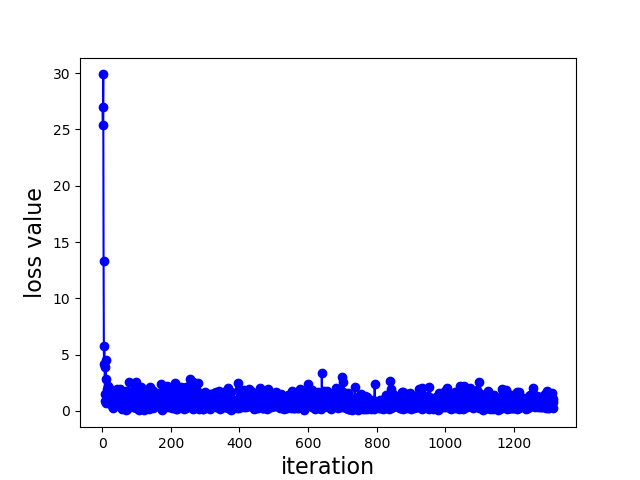
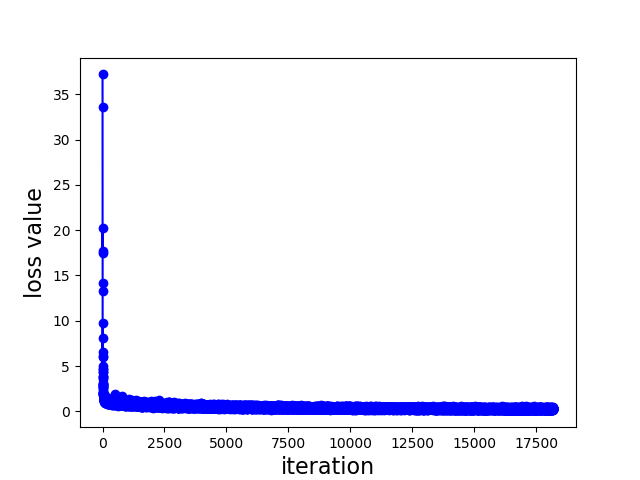
update

diff --git a/test_rdkit_psc.py b/test_rdkit_psc.py
@@ -2,10 +2,13 @@ import models
 from utils import *
 from dataset import *
 
-X_drug, X_target, y  = load_process_DAVIS('./data/', binary=False)
+X_drug, X_target, y  = process_BindingDB('./data/BindingDB_All.tsv',
+                                         y = 'Kd', 
+                                         binary = False, 
+                                         convert_to_log = True)
 
-drug_encoding = 'MPNN'
-target_encoding = 'CNN'
+drug_encoding = 'rdkit_2d_normalized'
+target_encoding = 'AAC'
 train, val, test = data_process(X_drug, X_target, y, 
                                 drug_encoding, target_encoding, 
                                 split_method='random',frac=[0.7,0.1,0.2])
@@ -13,15 +16,14 @@ train, val, test = data_process(X_drug, X_target, y,
 config = generate_config(drug_encoding = drug_encoding, 
                          target_encoding = target_encoding, 
                          cls_hidden_dims = [1024,1024,512], 
-                         train_epoch = 1, 
+                         train_epoch = 100, 
                          LR = 0.001, 
-                         batch_size = 16,
+                         batch_size = 256,
                          cnn_target_filters = [32,64,96],
                          cnn_target_kernels = [4,8,12],
-                         hidden_dim_drug = 128,
                          mpnn_hidden_size = 128,
                          mpnn_depth = 3
                         )
 model = models.model_initialize(**config)
 model.train(train, val, test)
-model.save_model('./model_MPNN_CNN')
+model.save_model('./model_rdkit_AAC')

diff --git a/test_Transformer_CNN.py b/test_Transformer_CNN.py
@@ -7,8 +7,8 @@ X_drug, X_target, y  = process_BindingDB('./data/BindingDB_All.tsv',
                                          binary = False, 
                                          convert_to_log = True)
 
-drug_encoding = 'CNN_RNN'
-target_encoding = 'CNN_RNN'
+drug_encoding = 'Transformer'
+target_encoding = 'CNN'
 train, val, test = data_process(X_drug, X_target, y, 
                                 drug_encoding, target_encoding, 
                                 split_method='random',frac=[0.7,0.1,0.2])
@@ -18,12 +18,10 @@ config = generate_config(drug_encoding = drug_encoding,
                          cls_hidden_dims = [1024,1024,512], 
                          train_epoch = 100, 
                          LR = 0.001, 
-                         batch_size = 256,
-                         cnn_drug_filters = [32,64,96],
+                         batch_size = 128,
                          cnn_target_filters = [32,64,96],
-                         cnn_drug_kernels = [4,6,8],
                          cnn_target_kernels = [4,8,12]
                         )
 model = models.model_initialize(**config)
 model.train(train, val, test)
-model.save_model('./model_CNN+RNN_CNN+RNN')
+model.save_model('./model_MPNN_CNN')

diff --git a/models.py b/models.py
@@ -262,14 +262,15 @@ class MPNN(nn.Sequential):
 			n_b = atoms_bonds[i,1].item()
 			if (n_a == 0):
 				embed = create_var(torch.zeros(1, self.mpnn_hidden_size))
-				embeddings.append(embed)
+				embeddings.append(embed.to(device))
 				continue 
 			sub_fatoms = fatoms[N_atoms:N_atoms+n_a,:].to(device)
 			sub_fbonds = fbonds[N_bonds:N_bonds+n_b,:].to(device)
 			sub_agraph = agraph[N_atoms:N_atoms+n_a,:].to(device)
 			sub_bgraph = bgraph[N_bonds:N_bonds+n_b,:].to(device)
 			embed = self.single_molecule_forward(sub_fatoms, sub_fbonds, sub_agraph, sub_bgraph)
-			embeddings.append(embed.to(device))
+			embed = embed.to(device)            
+			embeddings.append(embed)
 			N_atoms += n_a
 			N_bonds += n_b
 		try:

diff --git a/utils.py b/utils.py
@@ -409,10 +409,10 @@ def generate_config(drug_encoding, target_encoding,
 					batch_size = 256,
 					train_epoch = 10,
 					LR = 1e-4,
-					transformer_emb_size_drug = 256,
-					transformer_intermediate_size_drug = 1024,
-					transformer_num_attention_heads_drug = 4,
-					transformer_n_layer_drug = 1,
+					transformer_emb_size_drug = 128,
+					transformer_intermediate_size_drug = 512,
+					transformer_num_attention_heads_drug = 8,
+					transformer_n_layer_drug = 8,
 					transformer_emb_size_target = 256,
 					transformer_intermediate_size_target = 1024,
 					transformer_num_attention_heads_target = 4,

diff --git a/test_path_psc.py b/test_path_psc.py
@@ -18,7 +18,7 @@ config = generate_config(drug_encoding = drug_encoding,
                          cls_hidden_dims = [1024,1024,512], 
                          train_epoch = 100, 
                          LR = 0.001, 
-                         batch_size = 16,
+                         batch_size = 256,
                          cnn_target_filters = [32,64,96],
                          cnn_target_kernels = [4,8,12],
                          mpnn_hidden_size = 128,

diff --git a/test_MPNN_CNN.py b/test_MPNN_CNN.py
@@ -18,7 +18,7 @@ config = generate_config(drug_encoding = drug_encoding,
                          cls_hidden_dims = [1024,1024,512], 
                          train_epoch = 100, 
                          LR = 0.001, 
-                         batch_size = 16,
+                         batch_size = 128,
                          cnn_target_filters = [32,64,96],
                          cnn_target_kernels = [4,8,12],
                          hidden_dim_drug = 128,
